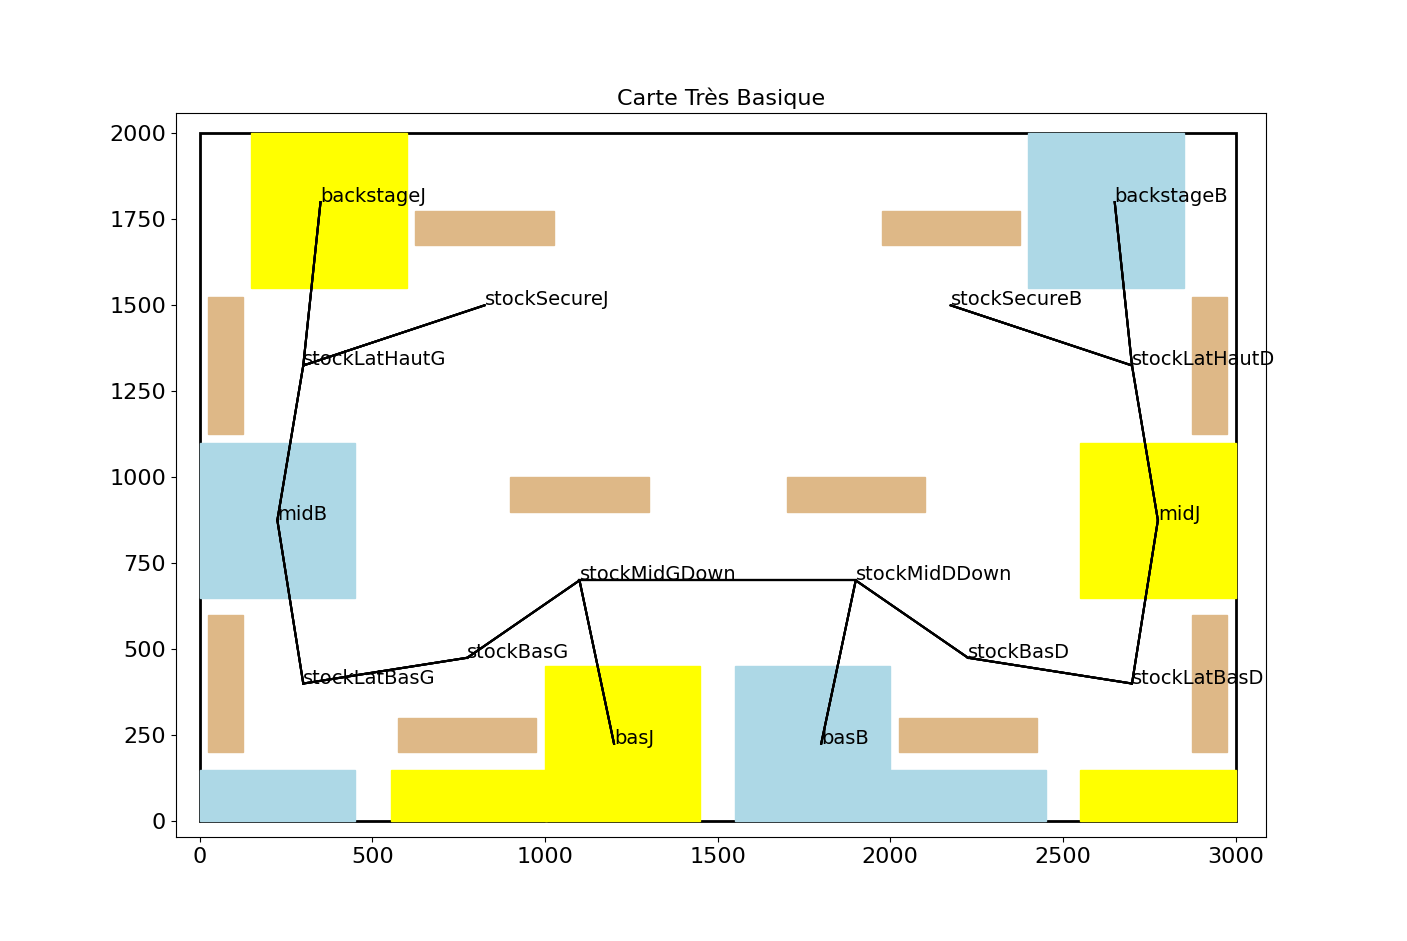
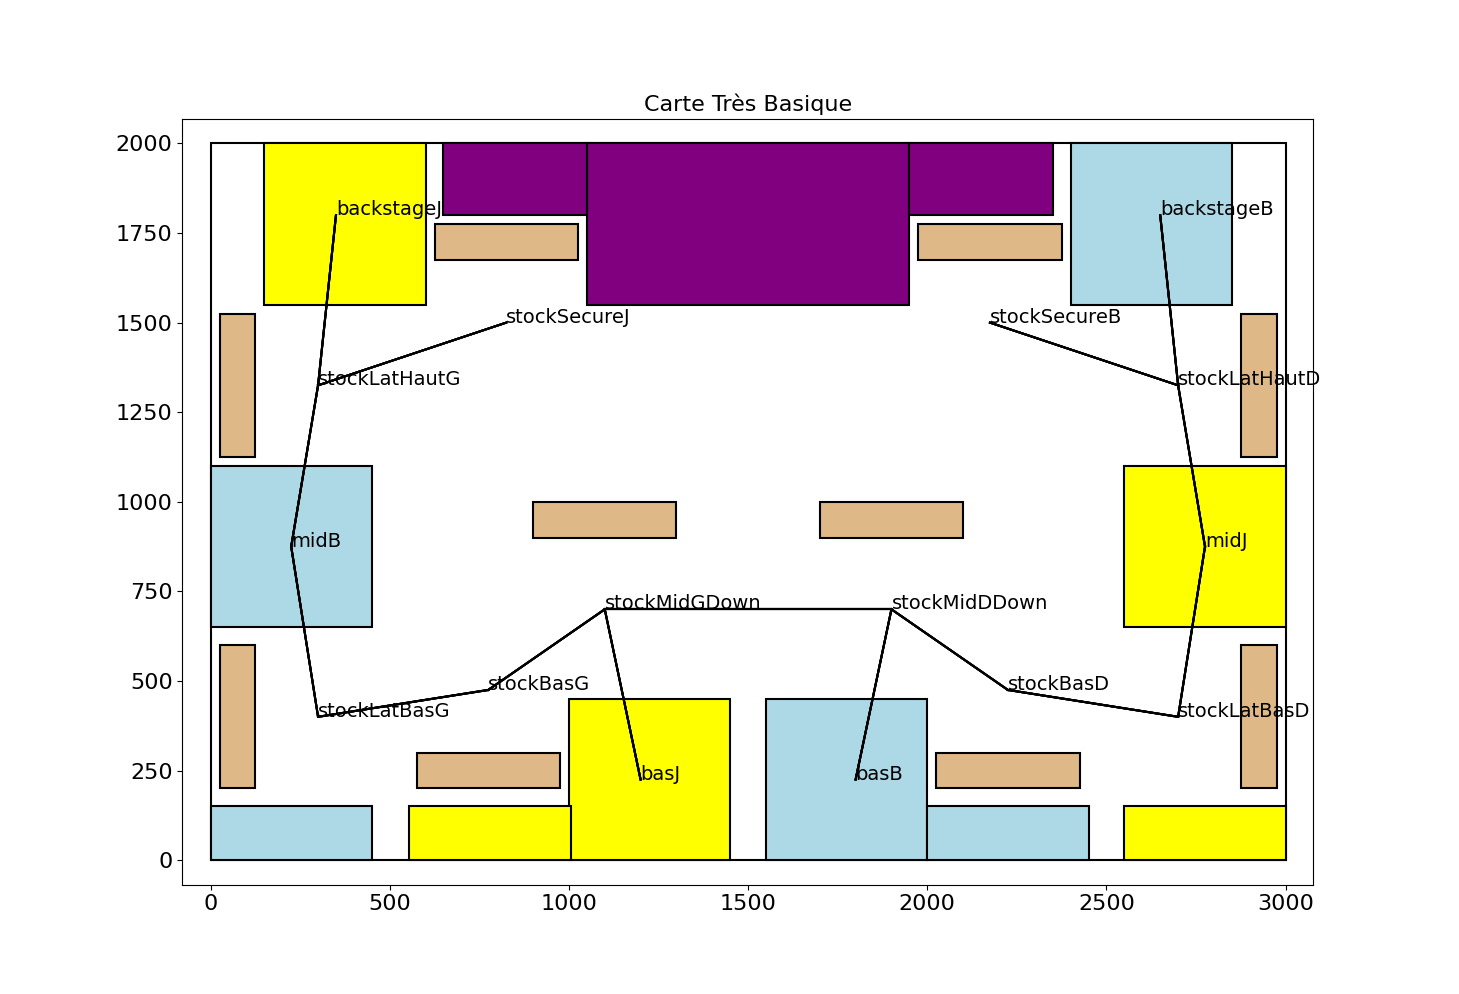
[nav] add "rampes" zone on map and make it fancy

diff --git a/sw/map.py b/sw/map.py
@@ -87,36 +87,36 @@ def print_map(graph, ax = None):
             plt.plot([x1,x2],[y1,y2],color='black')
     
     #Affichage des bords de table
-    table = patches.Rectangle((0,0),3000,2000,linewidth=2, edgecolor='black', facecolor='none')
+    table = patches.Rectangle((0,0),3000,2000,linewidth=1.5, edgecolor='black', facecolor='none')
     ax.add_patch(table)
     
     #Affichage des zones Jaunes
-    j1 = patches.Rectangle((1000,0),450,450,linewidth=1, color='yellow')
-    j2 = patches.Rectangle((2550,650),450,450,linewidth=1, color='yellow')
-    j3 = patches.Rectangle((150,1550),450,450,linewidth=1, color='yellow')
+    j1 = patches.Rectangle((1000,   0),450,450,linewidth=1.5, facecolor='yellow', edgecolor='black')
+    j2 = patches.Rectangle((2550, 650),450,450,linewidth=1.5, facecolor='yellow', edgecolor='black')
+    j3 = patches.Rectangle(( 150,1550),450,450,linewidth=1.5, facecolor='yellow', edgecolor='black')
     ax.add_patch(j1)
     ax.add_patch(j2)
     ax.add_patch(j3)
     
     #Affichage des zones Bleu
-    b1 = patches.Rectangle((1550,0),450,450,linewidth=1, color='lightblue')
-    b2 = patches.Rectangle((0,650),450,450,linewidth=1, color='lightblue')
-    b3 = patches.Rectangle((2400,1550),450,450,linewidth=1, color='lightblue')
+    b1 = patches.Rectangle((1550,   0),450,450,linewidth=1.5, facecolor='lightblue', edgecolor='black')
+    b2 = patches.Rectangle((   0, 650),450,450,linewidth=1.5, facecolor='lightblue', edgecolor='black')
+    b3 = patches.Rectangle((2400,1550),450,450,linewidth=1.5, facecolor='lightblue', edgecolor='black')
     ax.add_patch(b1)
     ax.add_patch(b2)
     ax.add_patch(b3)
 
     #Affichage des stocks 
-    s1 = patches.Rectangle((25,200),100,400,linewidth=1, color='burlywood')
-    s2 = patches.Rectangle((2875,200),100,400,linewidth=1, color='burlywood')
-    s3 = patches.Rectangle((25,1125),100,400,linewidth=1, color='burlywood')
-    s4 = patches.Rectangle((2875,1125),100,400,linewidth=1, color='burlywood')
-    s5 = patches.Rectangle((575,200),400,100,linewidth=1, color='burlywood')
-    s6 = patches.Rectangle((2025,200),400,100,linewidth=1, color='burlywood')
-    s7 = patches.Rectangle((1700,900),400,100,linewidth=1, color='burlywood')
-    s8 = patches.Rectangle((900,900),400,100,linewidth=1, color='burlywood')
-    s9 = patches.Rectangle((625,1675),400,100,linewidth=1, color='burlywood')
-    s10 = patches.Rectangle((1975,1675),400,100,linewidth=1, color='burlywood')
+    s1  = patches.Rectangle((  25, 200),100,400,linewidth=1.5, facecolor='burlywood', edgecolor='black')
+    s2  = patches.Rectangle((2875, 200),100,400,linewidth=1.5, facecolor='burlywood', edgecolor='black')
+    s3  = patches.Rectangle((  25,1125),100,400,linewidth=1.5, facecolor='burlywood', edgecolor='black')
+    s4  = patches.Rectangle((2875,1125),100,400,linewidth=1.5, facecolor='burlywood', edgecolor='black')
+    s5  = patches.Rectangle(( 575, 200),400,100,linewidth=1.5, facecolor='burlywood', edgecolor='black')
+    s6  = patches.Rectangle((2025, 200),400,100,linewidth=1.5, facecolor='burlywood', edgecolor='black')
+    s7  = patches.Rectangle((1700, 900),400,100,linewidth=1.5, facecolor='burlywood', edgecolor='black')
+    s8  = patches.Rectangle(( 900, 900),400,100,linewidth=1.5, facecolor='burlywood', edgecolor='black')
+    s9  = patches.Rectangle(( 625,1675),400,100,linewidth=1.5, facecolor='burlywood', edgecolor='black')
+    s10 = patches.Rectangle((1975,1675),400,100,linewidth=1.5, facecolor='burlywood', edgecolor='black')
     ax.add_patch(s1)
     ax.add_patch(s2)
     ax.add_patch(s3)
@@ -129,14 +129,23 @@ def print_map(graph, ax = None):
     ax.add_patch(s10)
     
     #Affichage des zones de construction par équipe
-    c1 = patches.Rectangle((0,0),450,150,linewidth=1, color='lightblue')
-    c2 = patches.Rectangle((2000,0),450,150,linewidth=1, color='lightblue')
-    c3 = patches.Rectangle((555,0),450,150,linewidth=1, color='yellow')
-    c4 = patches.Rectangle((2550,0),450,150,linewidth=1, color='yellow')
+    c1 = patches.Rectangle((0,0),450,150,linewidth=1.5, facecolor='lightblue', edgecolor='black')
+    c2 = patches.Rectangle((2000,0),450,150,linewidth=1.5, facecolor='lightblue', edgecolor='black')
+    c3 = patches.Rectangle((555,0),450,150,linewidth=1.5, facecolor='yellow', edgecolor='black')
+    c4 = patches.Rectangle((2550,0),450,150,linewidth=1.5, facecolor='yellow', edgecolor='black')
     ax.add_patch(c1)
     ax.add_patch(c2)
     ax.add_patch(c3)
     ax.add_patch(c4)
+
+    #Affichage des rampes
+    r1= patches.Rectangle((1050,1550),900,450, facecolor='purple', linewidth=1.5, edgecolor='black')
+    r2= patches.Rectangle(( 650,1800),400,200, facecolor='purple', linewidth=1.5, edgecolor='black')
+    r3= patches.Rectangle((1950,1800),400,200, facecolor='purple', linewidth=1.5, edgecolor='black')
+    ax.add_patch(r1)
+    ax.add_patch(r2)
+    ax.add_patch(r3)
+
 
 def print_chemin(g,chemin):
     """
